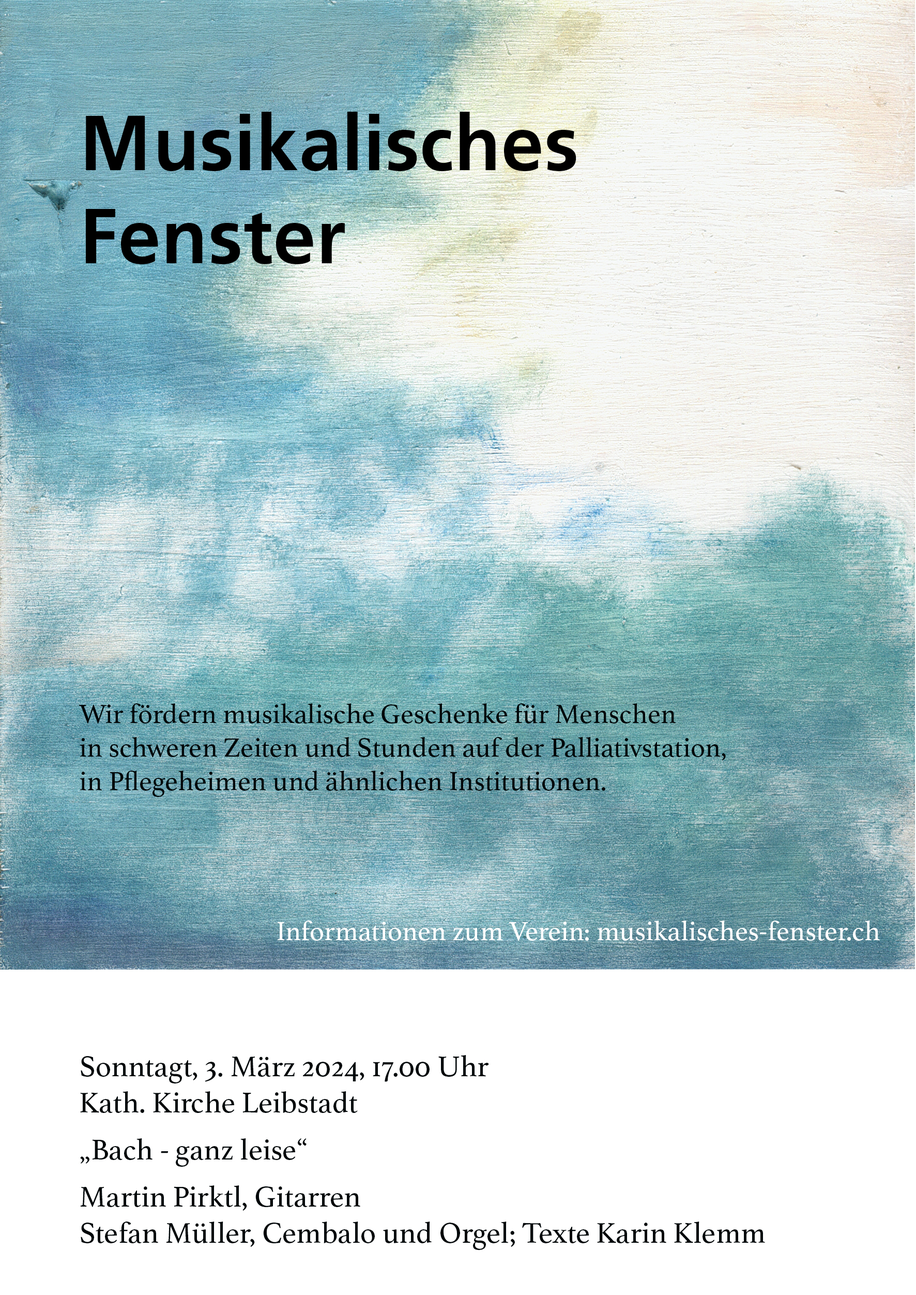
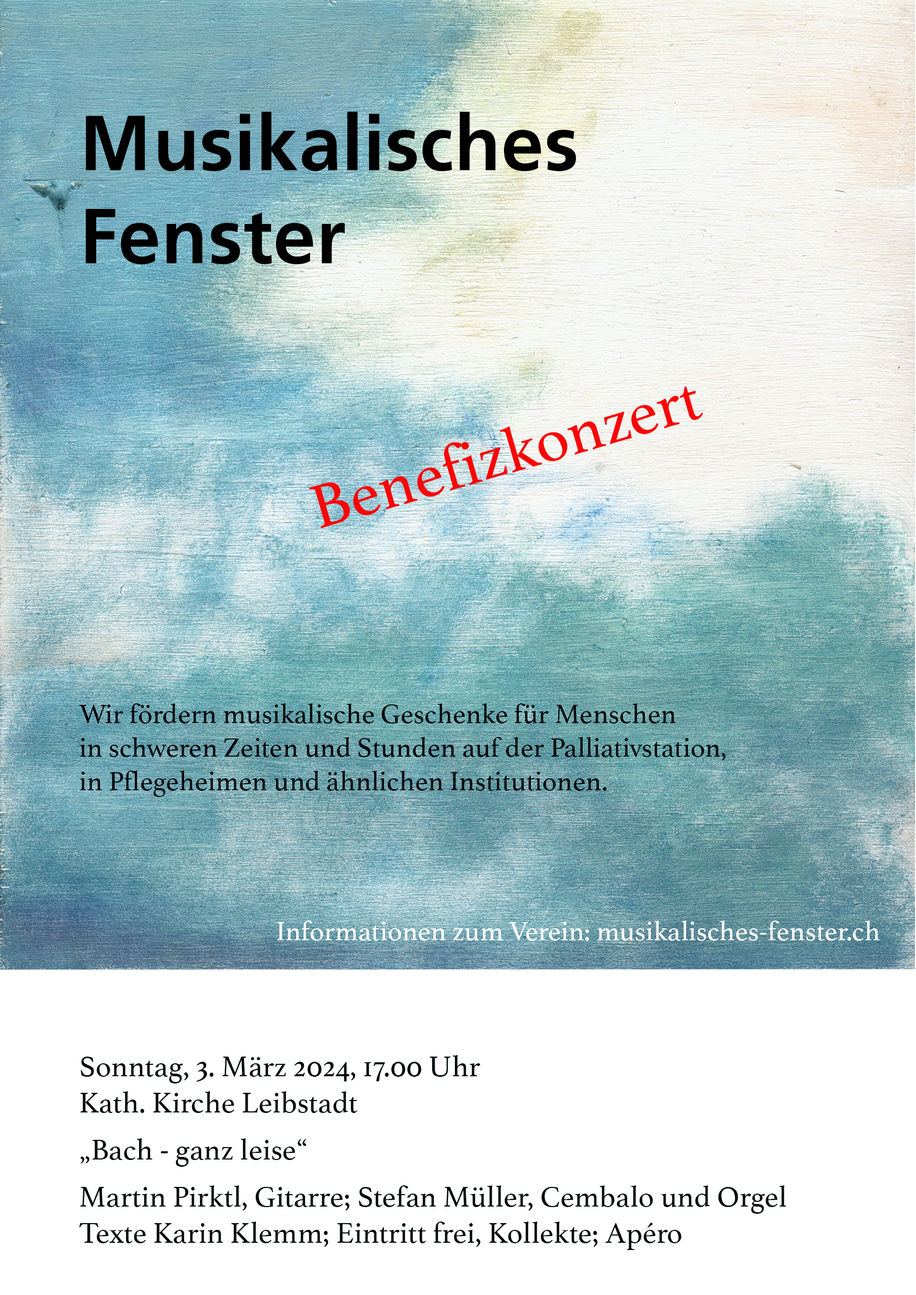
feat: updated event details

diff --git a/src/components/Events.svelte b/src/components/Events.svelte
@@ -13,7 +13,7 @@
       date: date("03.03.2024"),
       title: "17 Uhr, Kath. Kirche Leibstadt",
       content:
-        '"Bach ganz leise"<br />Martin Pirktl, Gitarre; Stefan Müller, Cembalo und Orgel; Texte Karin Klemm',
+        'Benefizkonzert "Bach ganz leise"<br />Martin Pirktl, Gitarre; Stefan Müller, Cembalo und Orgel; Texte Karin Klemm',
       flyer: "./flyer_030324.jpg",
     },
     {
